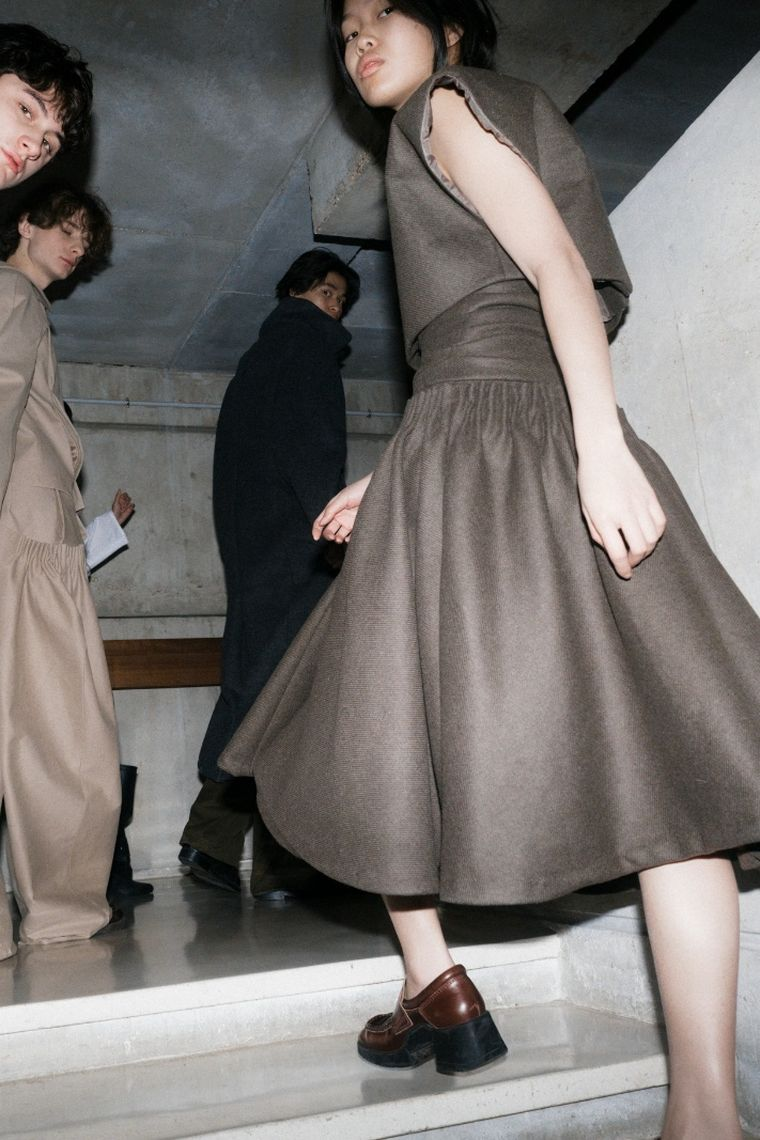
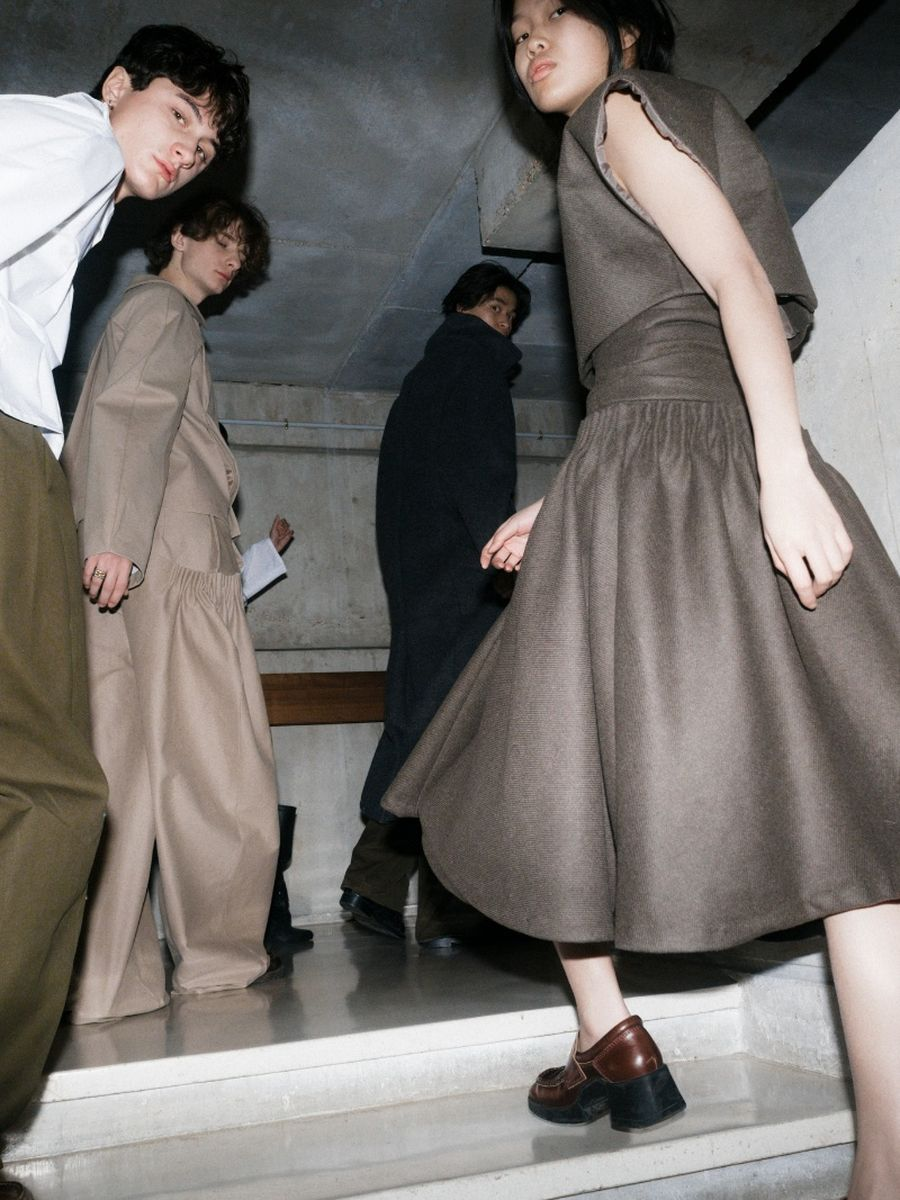
Add files via upload

diff --git a/landing-alt/index.html b/landing-alt/index.html
@@ -97,7 +97,7 @@
     border-bottom:1px solid var(--rule)}
   .hero-l{padding:76px 56px 64px 0;display:flex;flex-direction:column;justify-content:center}
   .hero-r{position:relative;border-left:1px solid var(--hair);min-height:560px;overflow:hidden}
-  .hero-r img{position:absolute;inset:0;width:100%;height:100%;object-fit:cover;object-position:58% 22%}
+  .hero-r img{position:absolute;inset:0;width:100%;height:100%;object-fit:cover;object-position:50% 0%}
   .kicker{display:flex;align-items:center;gap:14px;margin-bottom:28px}
   .kicker span{font-size:11px;font-weight:700;letter-spacing:2px;text-transform:uppercase}
   .kicker i{flex:1;height:1px;background:var(--rule);font-style:normal;max-width:88px}
@@ -227,6 +227,9 @@
   @media (max-width:860px){
     /* nowrap would overflow at this width - allow the break, keep it tight */
     .h-one{white-space:normal;font-size:clamp(26px,7.4vw,40px)}
+    .pull-q .display{white-space:normal!important;font-size:clamp(28px,8vw,42px)!important}
+    .close-split h2{white-space:normal!important;font-size:clamp(32px,8.4vw,48px)!important}
+    .close-split p{white-space:normal!important;max-width:38ch}
     .two-col{grid-template-columns:1fr!important;gap:18px!important}
     .stages{grid-template-columns:repeat(2,1fr)!important}
     .plates{grid-template-columns:1fr!important}
@@ -263,7 +266,7 @@
       <img src="assets/stitchify-logo-dark.png" alt="Stitchify" style="height:24px;width:auto">
     </a>
     <nav>
-      <a href="#make">Make</a>
+      <a href="#make">MAKE</a>
       <a href="#showroom">Showroom</a>
       <a href="guides.html">Guides</a>
       <a href="#faq">FAQ</a>
@@ -280,7 +283,7 @@
 <div class="shell">
   <div class="hero">
     <div class="hero-l">
-      <div class="kicker"><i></i><span>Make × Showroom</span></div>
+      <div class="kicker"><i></i><span>MAKE × Showroom</span></div>
       <h1 class="display">Factory&nbsp;quality,<br>from one piece.</h1>
       <p class="lede" style="margin:30px 0 36px">
         Tell us what you're making. We turn it into a real production spec,<br>
@@ -381,7 +384,7 @@
     <div class="rail">
       <div class="rail-inner">
         <span class="idx">03</span>
-        <span class="rail-label">Make</span>
+        <span class="rail-label">MAKE</span>
         <div class="rail-meta">Production from a single piece, with no stock held up front.</div>
       </div>
     </div>
@@ -473,11 +476,12 @@
 <div class="shell rule-top">
   <div style="padding:96px 0 100px" class="pull">
     <blockquote data-r style="margin:0;text-align:center" class="pull-q">
-      <p class="display" style="font-size:clamp(34px,5vw,66px);letter-spacing:-1.4px;line-height:1.06;margin:0 0 20px">
-        Making it isn't<br>where it ends.
+      <p class="display" style="font-size:clamp(28px,5.2vw,66px);letter-spacing:-1.4px;
+        line-height:1.06;margin:0 0 20px;white-space:nowrap">
+        Making it isn't where it ends.
       </p>
       <p class="body" style="margin:0 auto;font-size:17px;max-width:46ch">
-        Items produced through Make continue into Showroom.
+        Items produced through MAKE continue into Showroom.
       </p>
     </blockquote>
   </div>
@@ -583,10 +587,12 @@
 <div class="closing">
   <div class="shell">
     <div style="padding:100px 0 104px;text-align:center" class="close-split">
-      <h2 class="display" style="font-size:clamp(40px,6.4vw,88px);letter-spacing:-1.8px;margin:0 0 24px">
-        Start with your<br>first piece.
+      <h2 class="display" style="font-size:clamp(30px,5.6vw,80px);letter-spacing:-1.6px;
+        margin:0 0 24px;white-space:nowrap">
+        Start with your first piece.
       </h2>
-      <p style="font-size:18px;line-height:1.6;color:rgba(255,255,255,0.66);margin:0 auto 40px;max-width:44ch">
+      <p style="font-size:clamp(14px,1.7vw,18px);line-height:1.6;color:rgba(255,255,255,0.66);
+        margin:0 auto 40px;white-space:nowrap">
         One garment is enough to begin. Apply and we'll take it from there.
       </p>
       <button class="cta stitched js-apply" style="padding:19px 42px;font-size:16px">Get Access</button>
@@ -600,14 +606,14 @@
   <div class="shell" style="display:flex;flex-wrap:wrap;gap:28px;align-items:center;padding:34px 40px">
     <img src="assets/stitchify-logo-light.png" alt="Stitchify" style="height:21px;width:auto">
     <div style="display:flex;gap:26px;flex-wrap:wrap;font-size:13px;margin-left:auto">
-      <a href="#make" style="color:rgba(255,255,255,0.5)">Make</a>
+      <a href="#make" style="color:rgba(255,255,255,0.5)">MAKE</a>
       <a href="#showroom" style="color:rgba(255,255,255,0.5)">Showroom</a>
       <a href="guides.html" style="color:rgba(255,255,255,0.5)">Guides</a>
       <a href="#faq" style="color:rgba(255,255,255,0.5)">FAQ</a>
       <a href="mailto:support@stitchify.ai" style="color:rgba(255,255,255,0.5)">support@stitchify.ai</a>
     </div>
     <div style="flex-basis:100%;font-size:11.5px;color:rgba(255,255,255,0.3);
-      letter-spacing:0.4px">© 2026 Stitchify</div>
+      letter-spacing:0.4px;text-align:center">© 2026 Stitchify</div>
   </div>
 </footer>
 
@@ -685,14 +691,14 @@
   ];
 
   var FAQS=[
-    ["Can I really order just one piece?","Yes. Make is built for sample and single-piece runs. Most factories won't quote an unknown brand under 500 units, so we work with partners who accept small lots and have agreed those terms in advance. Your first piece is a real order, not a favour."],
+    ["Can I really order just one piece?","Yes. MAKE is built for sample and single-piece runs. Most factories won't quote an unknown brand under 500 units, so we work with partners who accept small lots and have agreed those terms in advance. Your first piece is a real order, not a favour."],
     ["What does it cost to get started?","Nothing. Applying, building a production spec and having it reviewed are all free. You only pay once you approve a quote and place an order, so you can see the full cost of a run before committing to anything."],
     ["What is a production spec, and why does it matter?","It's the document a factory needs before it can quote you: graded measurements, fabric weight and composition, print method and placement, labelling and packing. Send a factory an idea and you'll wait a week for questions. Send a complete spec and you get a price."],
     ["I've never had anything manufactured before. Is that a problem?","No - that's who this is built for. You answer questions about what you're making in plain language, and we turn those answers into the technical document. You don't need to know what a tolerance is, or how to grade a size run."],
     ["How long does manufacturing take?","For around 100 pieces with screen printing, expect 25-30 days including quality inspection. Knitwear and structured outerwear take longer, sampling is quicker. Your project page shows each stage - Ordered, Production, Inspection, Shipping, Delivered - as it completes."],
     ["Can I change the spec after submitting it?","Freely, right up until an order is placed. Once you've requested a quote the spec locks so the factory is pricing a fixed target. Withdraw the request and it unlocks again."],
     ["What is Showroom, and do I have to use it?","Showroom is where you promote what you've made. Post a campaign against a finished item and creators - influencers, photographers and models - apply to you. It's entirely optional; the two halves work independently."],
-    ["Why can I only run campaigns on items made through Make?","Because we can verify those items exist, confirm the stock is real, and stand behind what a creator is being asked to promote. It protects you from a campaign built on stock that hasn't arrived, and protects creators from promoting something that never ships."],
+    ["Why can I only run campaigns on items made through MAKE?","Because we can verify those items exist, confirm the stock is real, and stand behind what a creator is being asked to promote. It protects you from a campaign built on stock that hasn't arrived, and protects creators from promoting something that never ships."],
     ["What's the difference between gifting and rental?","With gifting the creator keeps the piece, which suits everyday items and simpler shoots. With rental it comes back after the shoot, which makes sense for higher-value pieces or limited stock - just build return shipping into your timeline."],
     ["When am I charged for a campaign?","When you approve a creator, not when you publish. The reward is held from that point and released once deliverables are submitted and you've confirmed them. If a creator misses the deadline, the campaign is flagged and the held amount returns to you."]
   ];
@@ -808,9 +814,9 @@
       var n=(i+1)<10?"0"+(i+1):String(i+1);
       var q=el("button",'<span class="qn">'+n+'</span><span>'+pair[0]+
               '</span><span class="sign" aria-hidden="true">+</span>');
-      q.className="q"; q.setAttribute("aria-expanded", i===0?"true":"false");
+      q.className="q"; q.setAttribute("aria-expanded","false");
       q.setAttribute("aria-controls","a-"+i);
-      var a=el("div",pair[1]); a.className="a"+(i===0?" open":""); a.id="a-"+i;
+      var a=el("div",pair[1]); a.className="a"; a.id="a-"+i;
       q.addEventListener("click",function(){
         var open=q.getAttribute("aria-expanded")==="true";
         Array.prototype.forEach.call(box.children,function(r){
